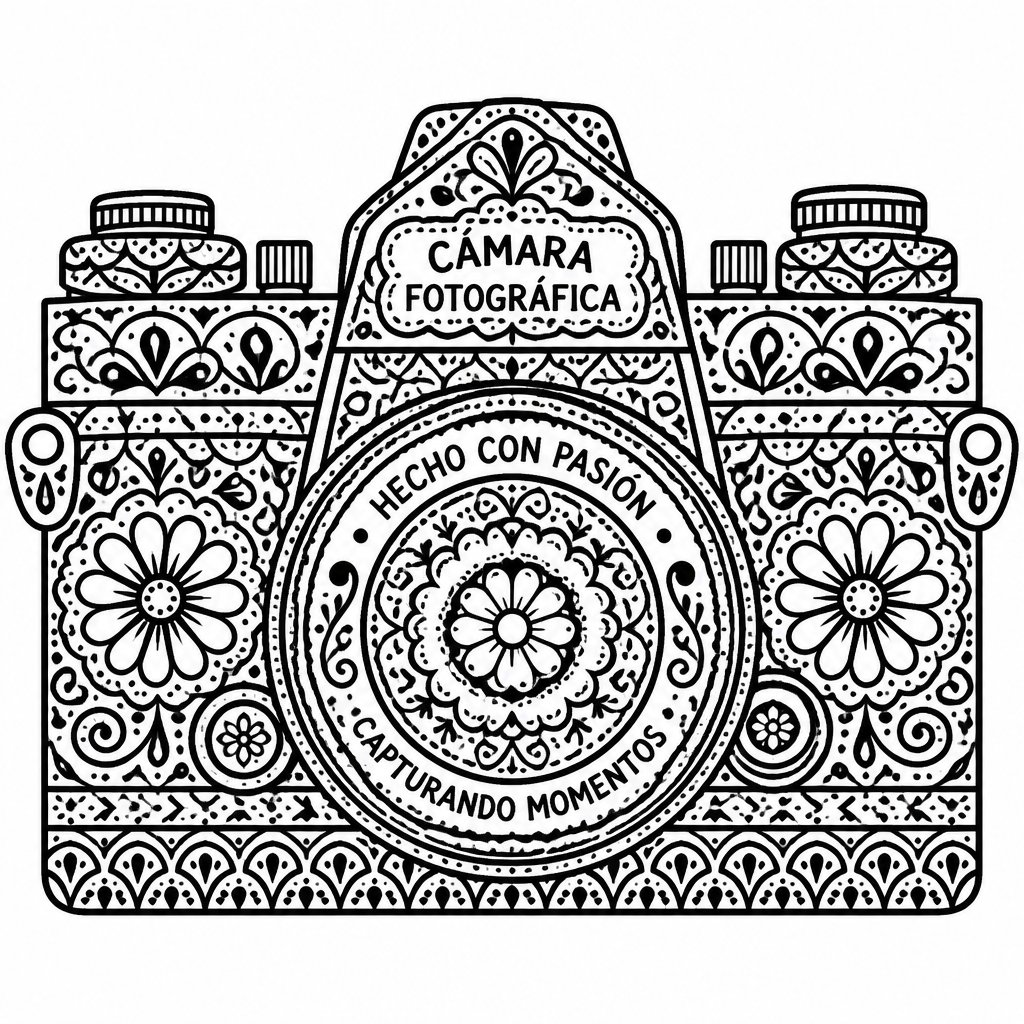
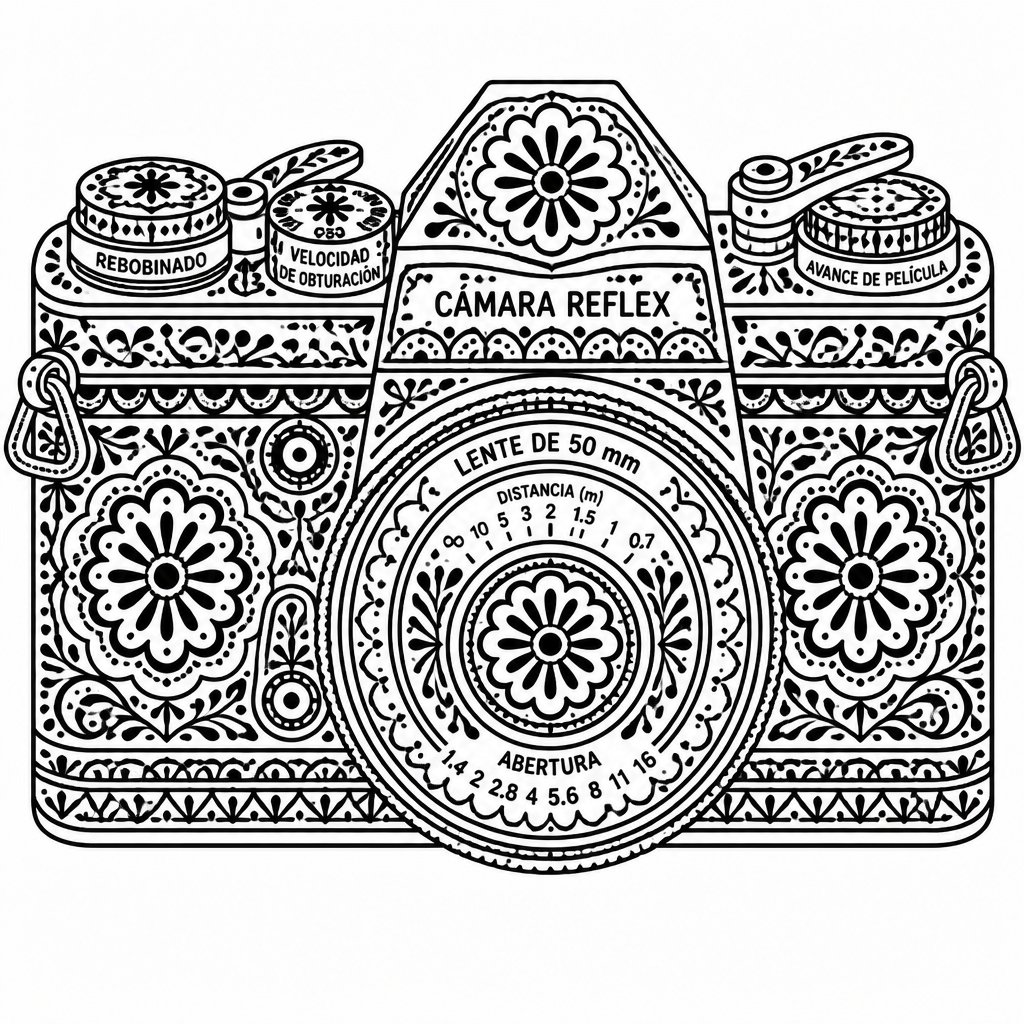
fix(trickvault): los tres rellenos usan el modelo de camara, no un sujeto generico
'Logomosaic' y 'typefill' se habian generado con el sujeto generico 'a
vintage film camera', que el modelo interpretaba como camara de cine con dos
bobinas, y no se parecian ni a la referencia ni al ejemplo de 'patternfill'.
Ahora el sujeto del lote describe el modelo concreto (reflex de 35 mm: placa
superior cromada, cuerpo de cuero sintetico negro, hump del pentaprisma,
objetivo de 50 mm con anillo de distancias y de aperturas, dial de
velocidades, palanca de avance, rebobinado y anillas de correa) y los tres
ejemplos se rehacen con ese sujeto, de modo que la carpeta muestra la misma
camara en los tres codigos.

Como los .jpg se cachean 7 dias en el CDN, suben los ?v= de las rutas
(logomosaic v3, typefill v2, patternfill v2) y la version del release de
xl-letras3d, para que las tarjetas ya guardadas recojan las imagenes nuevas.

Verificado en Chrome: las tres nacen/entran/rellenan con su imagen (1024 px) y
una tarjeta guardada con la URL anterior se actualiza a la nueva.

diff --git a/apps/trickvault/index.html b/apps/trickvault/index.html
@@ -1873,14 +1873,15 @@ Object.assign(SEED_COMMAND_IMAGES, {
     '/luxurylifestyle': 'assets/comida-moda/luxurylifestyle.jpg',
     '/shotsetup': 'assets/luz-camara-personas/shotsetup.jpg',
     '/ascii': 'assets/xl-letras3d/ascii.jpg',
-    // El ejemplo de /logomosaic se rehizo el 2026-10-07 (el prompt pasó de
-    // rótulos a logos con símbolo). El CDN de Hostinger cachea los .jpg 7 días
-    // (Cache-Control: max-age=604800) y el navegador también, así que se cambia
-    // la URL con ?v=2 para que la imagen nueva llegue de verdad. Si se vuelve a
-    // rehacer, subir a ?v=3.
-    '/logomosaic': 'assets/xl-letras3d/logomosaic.jpg?v=2',
-    '/typefill': 'assets/xl-letras3d/typefill.jpg',
-    '/patternfill': 'assets/xl-letras3d/patternfill.jpg',
+    // Los tres rellenos se rehicieron el 2026-10-07: primero con el sujeto
+    // genérico «a vintage film camera» y después con el modelo de cámara
+    // concreto (réflex de 35 mm), que es el que comparten ahora. El CDN de
+    // Hostinger cachea los .jpg 7 días (Cache-Control: max-age=604800) y el
+    // navegador también, así que cada rehacer sube el ?v= de la URL para que la
+    // imagen nueva llegue de verdad.
+    '/logomosaic': 'assets/xl-letras3d/logomosaic.jpg?v=3',
+    '/typefill': 'assets/xl-letras3d/typefill.jpg?v=2',
+    '/patternfill': 'assets/xl-letras3d/patternfill.jpg?v=2',
 });
 
 // ── Códigos del Excel «500 comandos secretos de ChatGPT» que NO existían
@@ -3800,7 +3801,7 @@ const GENERATED_IMAGE_RELEASES = [
     { category: 'xl-dev', prefix: 'assets/xl-dev/', key: 'trickvault-xl-dev-images-version', version: '2026-10-06-gpt-image-2-low' },
     { category: 'xl-estilos', prefix: 'assets/xl-estilos/', key: 'trickvault-xl-estilos-images-version', version: '2026-10-06-gpt-image-2-low' },
     { category: 'xl-efectosempaque', prefix: 'assets/xl-efectosempaque/', key: 'trickvault-xl-efectosempaque-images-version', version: '2026-10-06-gpt-image-2-low' },
-    { category: 'xl-letras3d', prefix: 'assets/xl-letras3d/', key: 'trickvault-xl-letras3d-images-version', version: '2026-10-07-patternfill-en-letras' },
+    { category: 'xl-letras3d', prefix: 'assets/xl-letras3d/', key: 'trickvault-xl-letras3d-images-version', version: '2026-10-07-camara-reflex-en-los-rellenos' },
     { category: 'xl-ilustracion', prefix: 'assets/xl-ilustracion/', key: 'trickvault-xl-ilustracion-images-version', version: '2026-10-06-gpt-image-2-low' },
     { category: 'xl-casaviajes', prefix: 'assets/xl-casaviajes/', key: 'trickvault-xl-casaviajes-images-version', version: '2026-10-06-gpt-image-2-low' },
     { category: 'xl-camararetrato', prefix: 'assets/xl-camararetrato/', key: 'trickvault-xl-camararetrato-images-version', version: '2026-10-06-gpt-image-2-low' },
